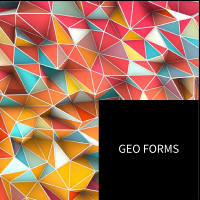
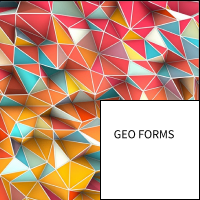
x

Changed region(s): [[0.48, 0.48, 1.0, 1.0]]

diff --git a/index.html b/index.html
@@ -49,7 +49,7 @@
     							<span class="icon-eye programm"></span>
     						</div>
         						<div class="uc-final-content">
-                      <div id="info">
+                      <div id="info" class="black">
                         <div class="flap"><!--first fold-->
                 					<div class="uc-container"><!-- 1 -->
                 						<div class="uc-initial-content">
@@ -227,7 +227,7 @@
                                   </div>
 
 
-                  						<span class="icon-cancel"></span>
+                  						<span class="icon-cancel black"></span>
                 						</div>
                 					</div><!-- / uc-container -->
                         </div>
@@ -440,6 +440,26 @@ function dragElement(elmnt) {
     document.onmousemove = null;
   }
 }
+</script>
+<script type="text/javascript">
+window.onload = function() {
+  //create a new instance of shake.js.
+  var myShakeEvent = new Shake({
+      threshold: 15
+  });
+  // start listening to device motion
+  myShakeEvent.start();
+  // register a shake event
+  window.addEventListener('shake', shakeEventDidOccur, false);
+  //shake event callback
+  function shakeEventDidOccur () {
+      //put your own code here etc.
+
+      alert('do you want to close all folds?');
+  }
+
+
+};
 </script>
 
 

diff --git a/css/custom2.css b/css/custom2.css
@@ -28,10 +28,10 @@
 
 .demo-2 .grid {
 
-    top: 50%;
-    left:50%;
-    /* height: 3000px;
-    width: 3000px; */
+      top: 50%;
+      left:50%;
+    height: 3000px;
+    width: 3000px;
     /* margin: 30px auto; */
     position: absolute;
     /* transition: 2s; */
@@ -129,6 +129,14 @@
   background-size: cover;
 }
 
+#info.black{
+  display: block;
+  height: 100px;
+  width: 100px;
+  background: transparent url(../images/icon-close-black.png) no-repeat center center;
+  background-size: cover;
+}
+
 #programm{
   display: block;
   height: 100px;
@@ -181,6 +189,19 @@
     background: transparent url(../images/icon-close.png) no-repeat center center;
     background-size: cover;
 }
+
+#info .icon-cancel.black {
+    position: absolute;
+    opacity: 1;
+    width: 100px;
+    height: 100px;
+    top: 0px;
+    left: -100px;
+    cursor: pointer;
+    background: transparent url(../images/icon-close-black.png) no-repeat center center;
+    background-size: cover;
+}
+
 
 #programm .icon-cancel {
     position: absolute;

diff --git a/js/jquery.pfold.js b/js/jquery.pfold.js
@@ -462,11 +462,11 @@
                //   var midX = $(window).width()/2;
                //   var midY = $(window).height()/2;
                //
-               //   var offsetX = clickPosX-midX;
-               //   alert(offsetX);
+               //   var offsetX = (clickPosX-midX);
+               //    var offsetY = (clickPosY-midY);
                //
-							 // $('.grid').addClass( 'uc-current' ).css( {top : offsetX } );
-
+							 // $('.grid').addClass( 'uc-current' ).css( {top : clickPosX, left: clickPosX} );
+               //
 
 							contentTopFront = this.iContent;
 
